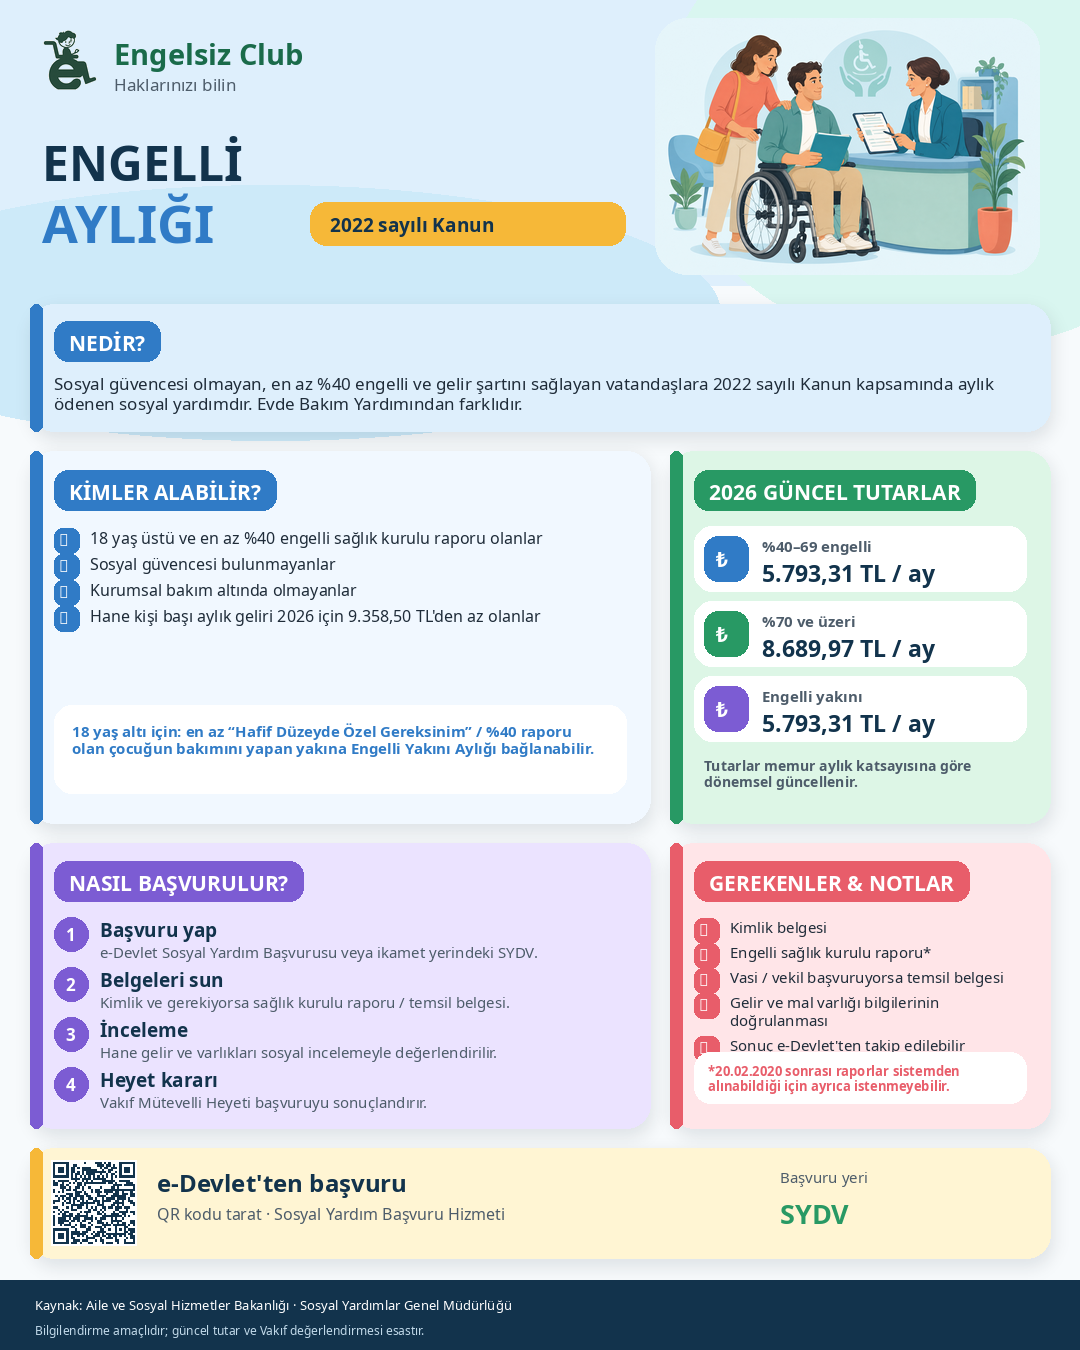
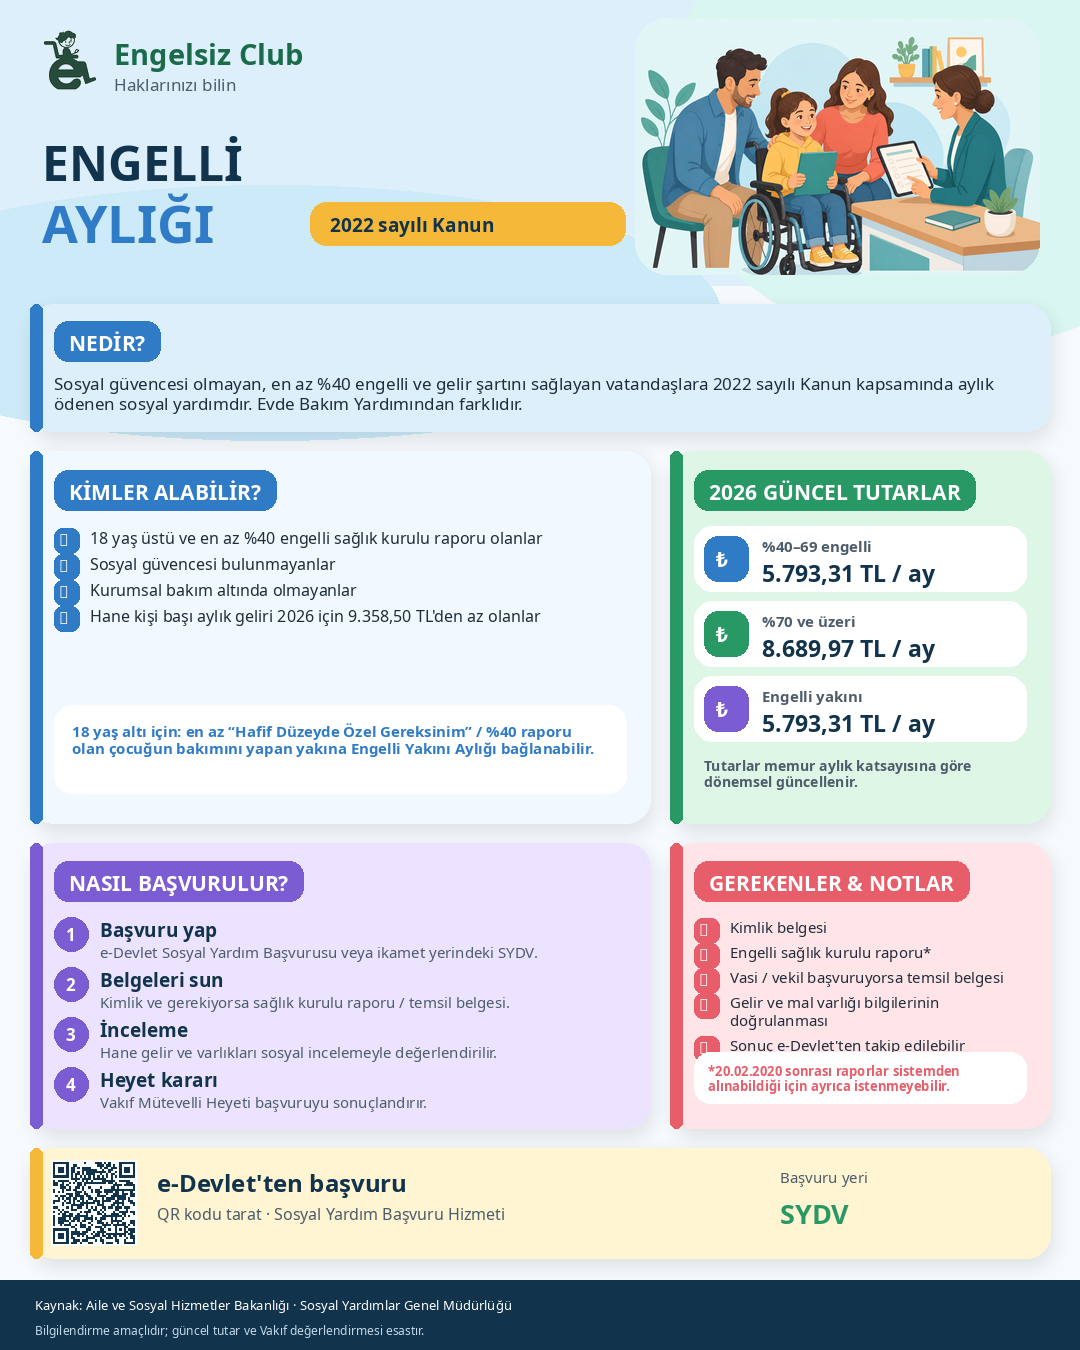
Use disabled child illustration in Engelli Aylığı poster

Changed region(s): [[0.5806, 0.0311, 0.9778, 0.2178]]

diff --git a/marketing/posters/build_engelli_ayligi_poster.py b/marketing/posters/build_engelli_ayligi_poster.py
@@ -11,7 +11,7 @@ from PIL import Image, ImageDraw, ImageFont, ImageFilter, ImageOps
 ROOT = Path(__file__).resolve().parents[2]
 OUT = Path(__file__).resolve().parent
 ICON = ROOT / "assets" / "icon" / "app_icon_clean.png"
-ILLUSTRATION = OUT / "engelli-ayligi-illustration.png"
+ILLUSTRATION = OUT / "engelli-ayligi-cocuk-illustration.png"
 
 URL = "https://www.turkiye.gov.tr/aile-ve-sosyal-hizmetler-sosyal-yardim-basvuru-hizmeti"
 
@@ -206,7 +206,7 @@ def build() -> Image.Image:
     paste_logo(base, (38, 28), 64)
     draw.text((114, 34), "Engelsiz Club", font=font(29, True), fill=BRAND)
     draw.text((114, 72), "Haklarınızı bilin", font=font(17), fill=MUTED)
-    paste_illustration(base, (655, 18, 1040, 275))
+    paste_illustration(base, (635, 18, 1040, 275))
 
     draw.text((42, 129), "ENGELLİ", font=font(48, True), fill=NAVY)
     draw.text((42, 187), "AYLIĞI", font=font(52, True), fill=BLUE)
